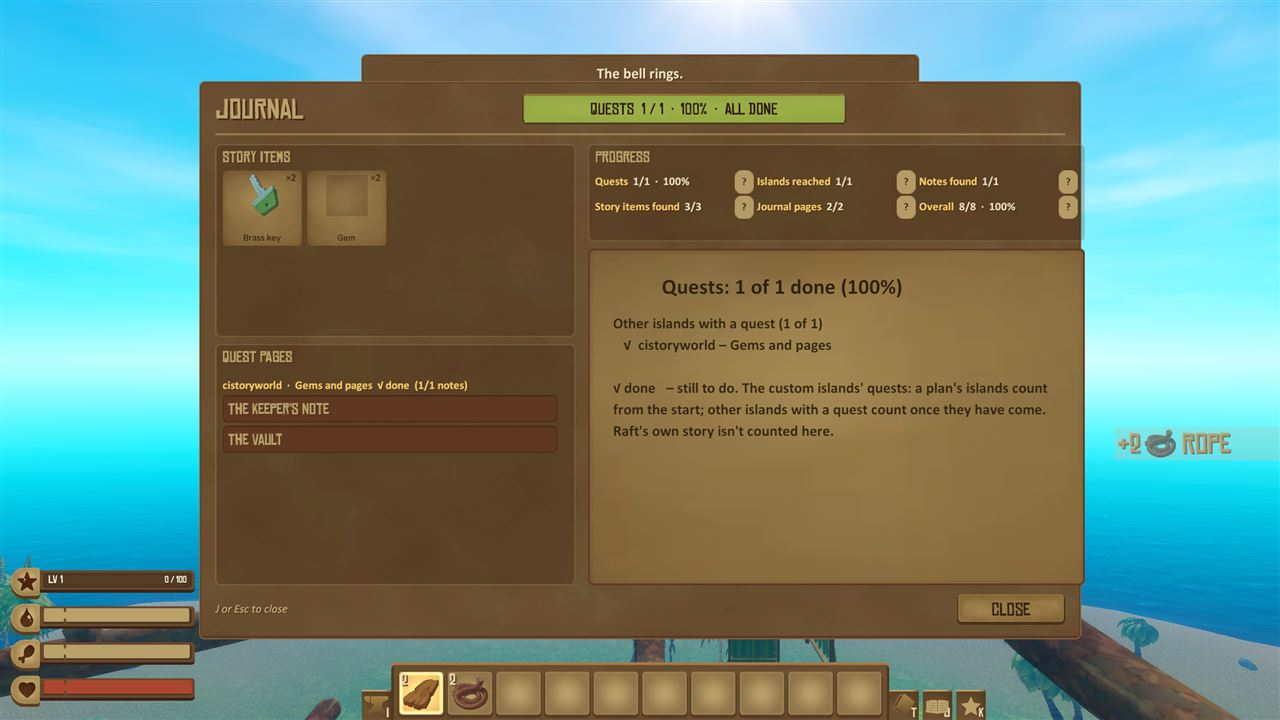
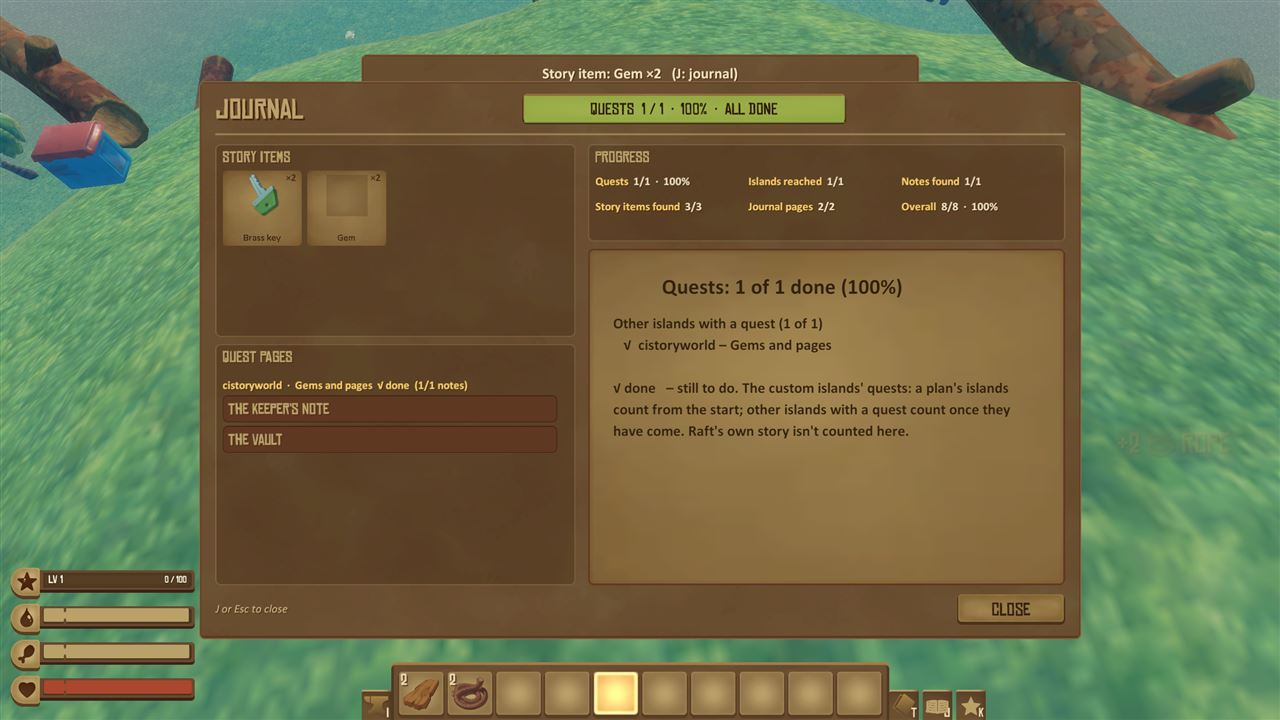
Journal: the Progress lines show their help on hover (no ? marks); the panel fits the journal
The user: instead of the ? marks, hovering each line should show what it
counts. Each Progress line carries the help popup itself (UIKit.HelpMark on
its text); the cells are narrower, so the panel no longer runs 22 px past the
journal's edge. New journal pictures. CIStoryWorld checks every line has its
help and the panel has no ? buttons - passes in Raft. Guide 3, README.

diff --git a/DynamicIslands/StoryItems.cs b/DynamicIslands/StoryItems.cs
@@ -711,9 +711,11 @@ namespace DynamicIslands.Editor
 				RectTransform cell = UIKit.Rect("Row_" + row.Name, grid);
 				UIKit.Horizontal(cell.gameObject, 2f, new RectOffset(0, 0, 0, 0));
 				Text t = UIKit.Label(cell, "", 13, UIKit.TextColor, TextAnchor.MiddleLeft, FontStyle.Normal, "Value");
-				UIKit.Size(t.gameObject, 140);
+				UIKit.Size(t.gameObject, 166);
 				t.resizeTextForBestFit = true; t.resizeTextMinSize = 10; t.resizeTextMaxSize = 13;
-				UIKit.Help(cell, row.Help, 16f);
+				// (hover the line itself for what it counts - the user, 2026-10-03: instead of a ? after each)
+				t.raycastTarget = true;
+				t.gameObject.AddComponent<UIKit.HelpMark>().Text = row.Help;
 				instance.progressText.Add(t);
 			}
 			RectTransform sheet = UIKit.Rect("Sheet", right);
@@ -913,6 +915,10 @@ namespace DynamicIslands.Editor
 				progressText[i].text = "<color=#f7cc6b>" + r.Name + "</color>  " + (r.Total == 0 ? "-" : r.Done + "/" + r.Total + (r.Name == "Quests" || r.Name == "Overall" ? "  \u00B7  " + r.Percent + "%" : ""));
 			}
 		}
+
+		/// <summary>The Progress panel's lines' hover help, and how many ? marks it has (tests: none - the lines themselves carry it).</summary>
+		public static List<string> ProgressHelp { get { return IsOpen ? instance.progressText.Select(t => { UIKit.HelpMark m = t.GetComponent<UIKit.HelpMark>(); return m != null ? m.Text : null; }).ToList() : new List<string>(); } }
+		public static int ProgressMarks { get { return IsOpen && instance.progressText.Count > 0 ? instance.progressText[0].transform.parent.parent.GetComponentsInChildren<Button>(true).Length : -1; } }
 
 		/// <summary>The Progress panel's lines now (tests).</summary>
 		public static List<string> ProgressShown { get { return IsOpen ? instance.progressText.Select(t => System.Text.RegularExpressions.Regex.Replace(t.text, "<[^>]+>", "")).ToList() : new List<string>(); } }

diff --git a/DynamicIslands/DevTestsStory.cs b/DynamicIslands/DevTestsStory.cs
@@ -328,6 +328,8 @@ namespace DynamicIslands
 			Check(ref ok, progress.Count == 6 && progress[0].StartsWith("Quests  " + rowsNow[0].Done + "/" + rowsNow[0].Total) && progress.Any(l => l == "Notes found  " + notesFound1 + "/" + notesTotal1)
 				&& progress.Any(l => l.StartsWith("Story items found  ")) && progress.Any(l => l.StartsWith("Islands reached  ")) && progress.Any(l => l.StartsWith("Journal pages  ")) && progress.Last().StartsWith("Overall  ") && progress.Last().EndsWith("%"),
 				"the journal's Progress panel: " + string.Join(" | ", progress.ToArray()));
+			List<string> helps = JournalWindow.ProgressHelp;
+			Check(ref ok, helps.Count == 6 && helps.All(h => !string.IsNullOrEmpty(h)) && JournalWindow.ProgressMarks == 0, "each Progress line shows its help on hover, no ? marks (" + JournalWindow.ProgressMarks + " buttons in the panel)");
 			WorldProgress.Row itemsRow = rowsNow.First(r => r.Name == "Story items found"), pagesRow = rowsNow.First(r => r.Name == "Journal pages");
 			Check(ref ok, itemsRow.Total >= 1 && itemsRow.Done >= 1 && pagesRow.Done >= 2 && pagesRow.Total >= pagesRow.Done, "story items found " + itemsRow.Done + "/" + itemsRow.Total + " (the brass key, used up, still counts), journal pages " + pagesRow.Done + "/" + pagesRow.Total + " (the note and the vault's page)");
 			// (and each island's line its own: "(1/1 notes)" - the user, 2026-10-03: so you know if some are left on it)

diff --git a/README.md b/README.md
@@ -102,7 +102,7 @@ This README is the full reference, in the same order: island creation first, the
   - **Quests:** near an island with a quest, a panel shows its steps (done ones ticked). The introduction shows when you arrive, and each step done shows what's next. The quest is shared by everyone in the world and saved with it. When it's done, every player near the island gets the reward's items (its story items go to the crew's journal once).
   - **Arriving** near an island that has a name or description shows it as a banner at the top of the screen, once per island per session. Banners and messages come one after another: one that arrives while another is on screen waits until that one has shown for at least 3 seconds.
   - **Key tabs at the hotbar:** beside Raft's own (inventory, notebook) the journal's (J) and, while the level up system is on, the stats page's (K) - copies of Raft's tab, so they look and hide as Raft's do.
-  - **The journal** (J): the crew's book of the custom islands - their story items with pictures and counts, and every custom note read (once, the first time anyone reads it), pages written by island events and the frequencies a plan gives out, read on paper. Pages are listed by island, each island under its name, its quest's title (√ done once it is) and its notes found of its notes with a text ("(5/7 notes)": some are still left on it), so notes from several islands don't mix. The head shows the world's custom quests done (**QUESTS 7 / 20 · 35%**, with a bar; click it for the list; Raft's own story isn't counted): the plan's islands in the story (as the chain counts them), the plan's other rules' saved islands with a quest (counted from the start, before they come) and every other island with a quest that has come (`QuestCount` in `StoryItems.cs`; refreshed every 2 s while open). A **Progress** panel over the page shows the world's progress, each as found / total with a ? help: Quests (and %), Islands reached, Notes found, Story items found (used-up ones too: `StoryBook.FoundIds`), Journal pages (the islands' notes and their events' journal pages, `IslandCache.EventPagesOf`) and Overall (%) - over the custom islands in the world and the saved islands its plan brings (`WorldProgress`, `NoteCount`). At 90% every player gets a banner "Nearing the end", at 100% "The whole quest line is done" (and the count says ALL DONE): each once per world (`milestone:90` / `milestone:100` in the world's `@done=` line), not in worlds with fewer than 5 quests (`QuestMilestones`, host; `CIQuestMilestones` tests it). One journal for everyone in the world: the host keeps it, joining players get it, saved with the world. Quest steps "Find a story item" and "Find pages" count what it holds; the quest itself shows in the quest panel at its island. Separate from Raft's notebook (T), which keeps Raft's own story notes and quest items and never shows custom content: Raft's notebook is a fixed book, and new entries in it would break saves opened without the mod. Whatever a plan does with Raft's story (all, some or none of it, with or without its own islands in it), the notebook keeps only Raft's own (the numbers on its notes follow the world's chain) and the journal only the custom islands' - including the frequencies the plan gives out, and a Raft story island's frequency when one of the plan's islands unlocked it (guide 6.5).
+  - **The journal** (J): the crew's book of the custom islands - their story items with pictures and counts, and every custom note read (once, the first time anyone reads it), pages written by island events and the frequencies a plan gives out, read on paper. Pages are listed by island, each island under its name, its quest's title (√ done once it is) and its notes found of its notes with a text ("(5/7 notes)": some are still left on it), so notes from several islands don't mix. The head shows the world's custom quests done (**QUESTS 7 / 20 · 35%**, with a bar; click it for the list; Raft's own story isn't counted): the plan's islands in the story (as the chain counts them), the plan's other rules' saved islands with a quest (counted from the start, before they come) and every other island with a quest that has come (`QuestCount` in `StoryItems.cs`; refreshed every 2 s while open). A **Progress** panel over the page shows the world's progress, each as found / total (hover a line for what it counts): Quests (and %), Islands reached, Notes found, Story items found (used-up ones too: `StoryBook.FoundIds`), Journal pages (the islands' notes and their events' journal pages, `IslandCache.EventPagesOf`) and Overall (%) - over the custom islands in the world and the saved islands its plan brings (`WorldProgress`, `NoteCount`). At 90% every player gets a banner "Nearing the end", at 100% "The whole quest line is done" (and the count says ALL DONE): each once per world (`milestone:90` / `milestone:100` in the world's `@done=` line), not in worlds with fewer than 5 quests (`QuestMilestones`, host; `CIQuestMilestones` tests it). One journal for everyone in the world: the host keeps it, joining players get it, saved with the world. Quest steps "Find a story item" and "Find pages" count what it holds; the quest itself shows in the quest panel at its island. Separate from Raft's notebook (T), which keeps Raft's own story notes and quest items and never shows custom content: Raft's notebook is a fixed book, and new entries in it would break saves opened without the mod. Whatever a plan does with Raft's story (all, some or none of it, with or without its own islands in it), the notebook keeps only Raft's own (the numbers on its notes follow the world's chain) and the journal only the custom islands' - including the frequencies the plan gives out, and a Raft story island's frequency when one of the plan's islands unlocked it (guide 6.5).
   - **The world's settings in a running world:** **Esc → Custom Islands** in Raft's pause menu opens them (world rules, randomizer, extra options, level up system, islands while sailing, the plan and story); the host changes them for every player, others see them.
   - **Behaviours:** doors, gates and lifts move for every player; things that move back and forth, spin or bob follow a clock all players share (Raft's water time), so everyone sees them in the same place; what is shown, hidden, open or closed is shared by all players, saved with the world and sent to players who join. Messages, items, sounds and teleports go to the player who did it (for defeated animals and finished quests: to everyone near the island).
   - **World plans** decide which islands a world gets (see below): chosen in Raft's **New Game** box ("Custom Islands plan", a ▼ list), or in a running world by the host: Esc > CUSTOM ISLANDS > Plan (or `WorldPlan <name>`). "Random islands" (the default) is the old behaviour.

diff --git a/docs/GUIDE.md b/docs/GUIDE.md
@@ -266,7 +266,7 @@ or console, while a note is open, or in the editor.) Its key is also shown at th
 page's (**K**, a star).
 
 ![The journal](images/world-journal.jpg)
-*The journal: the custom quests done at the top, the Progress panel (quests, islands reached, notes, story items, journal pages, overall - each with its ?), the story items at the top left, the pages under Quest Pages by island with its quest and its notes found ("(1/1 notes)"), and the page "The vault" open, signed with the island, its quest and the day.*
+*The journal: the custom quests done at the top, the Progress panel (quests, islands reached, notes, story items, journal pages, overall - hover a line for what it counts), the story items at the top left, the pages under Quest Pages by island with its quest and its notes found ("(1/1 notes)"), and the page "The vault" open, signed with the island, its quest and the day.*
 
 **What's in it**
 
@@ -305,8 +305,8 @@ page's (**K**, a star).
 
   ![The quests list in the journal](images/world-journal-quests.jpg)
   *A click on the count: the custom quests by kind, done and still to do.*
-- **Progress** (top right, over the page): how far the crew has come in this world, each as found / total, with a **?**
-  on each line that says what it counts:
+- **Progress** (top right, over the page): how far the crew has come in this world, each as found / total - hover a
+  line to see what it counts:
   - **Quests** - quests done, and the per cent (the same as the bar at the top);
   - **Islands reached** - custom islands someone has set foot on, of those in the world and those its plan will bring;
   - **Notes found** - notes read of the notes with a text on those islands (each island's line under Quest Pages has
